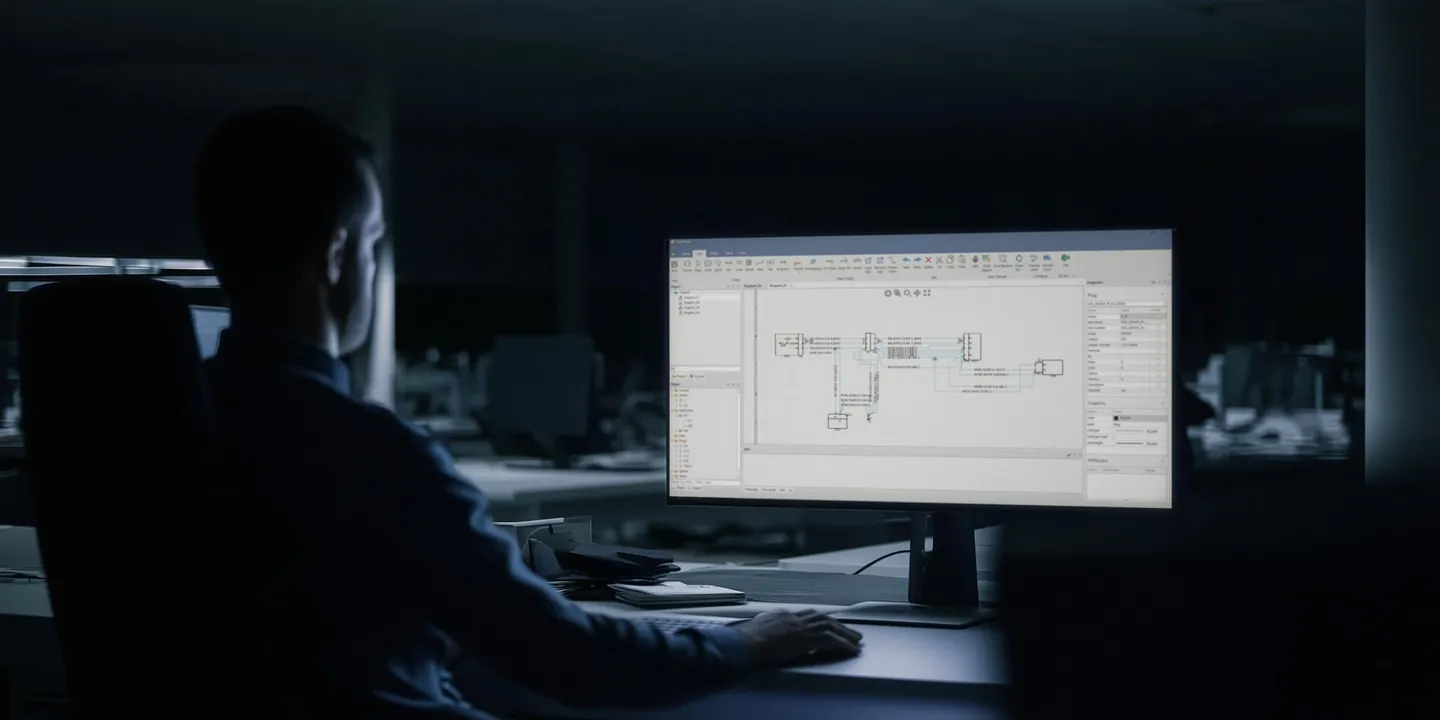
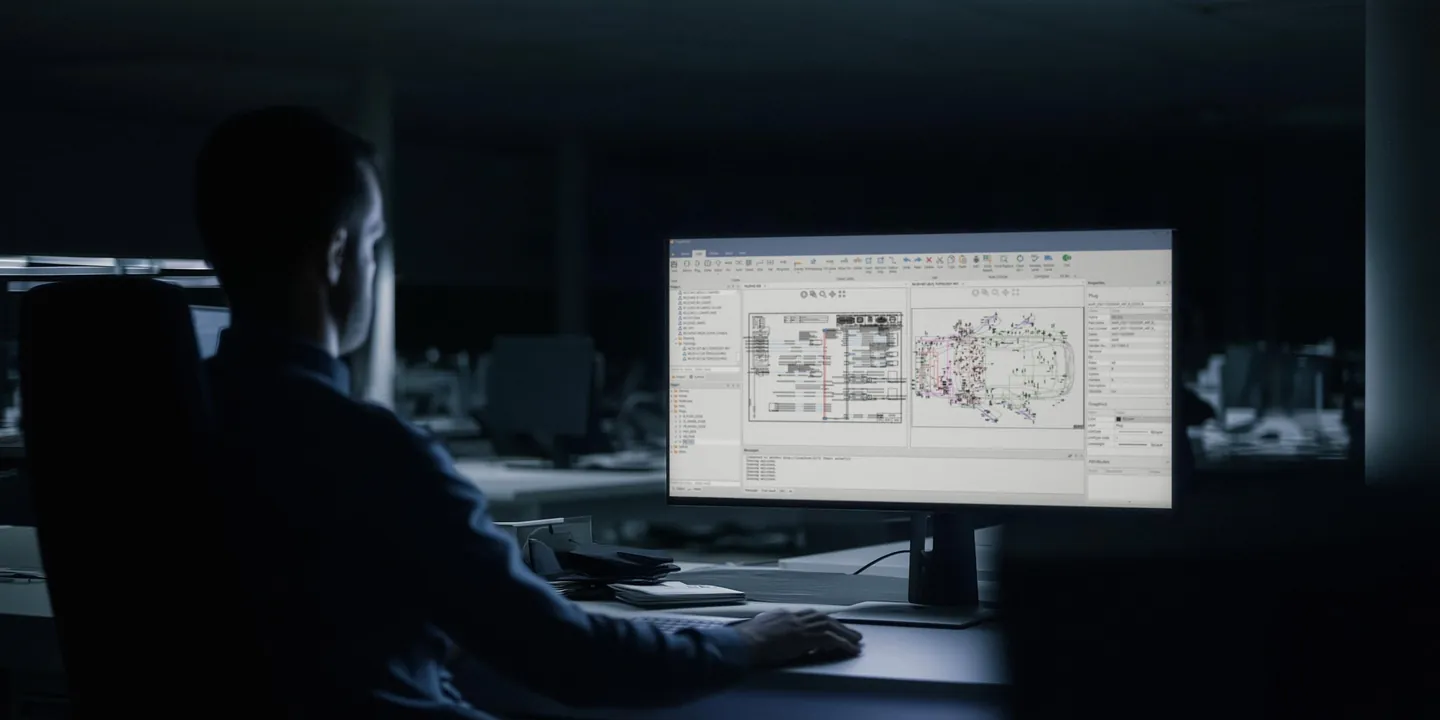
feat: 히어로 모니터 화면을 실제 Logic 화면(회로도 + 토폴로지, 2026-11-17 캡처)으로 교체, 같은 사진·모서리·합성 효과 유지, OG 이미지도 교체, 이미지에 캐시 번호

diff --git a/index.html b/index.html
@@ -14,7 +14,7 @@
 <meta property="og:site_name" content="VegaFencer">
 <meta property="og:locale" content="ko_KR">
 <link rel="canonical" href="https://roiscompany.com/">
-<meta property="og:image" content="https://roiscompany.com/assets/img/og-home.jpg">
+<meta property="og:image" content="https://roiscompany.com/assets/img/og-home.jpg?v=20261117">
 <meta property="og:image:width" content="1200">
 <meta property="og:image:height" content="630">
 <meta name="twitter:card" content="summary_large_image">
@@ -29,7 +29,7 @@
 <link rel="icon" type="image/png" sizes="32x32" href="assets/img/favicon-32.png">
 <link rel="apple-touch-icon" href="assets/img/apple-touch-icon.png">
 
-<link rel="preload" as="image" href="assets/img/hero-office-2048.webp" imagesrcset="assets/img/hero-office-1440.webp 1440w, assets/img/hero-office-2048.webp 2048w, assets/img/hero-office-3072.webp 3072w" imagesizes="(min-width: 768px) 90vw, 200vw" fetchpriority="high">
+<link rel="preload" as="image" href="assets/img/hero-office-2048.webp?v=20261117" imagesrcset="assets/img/hero-office-1440.webp?v=20261117 1440w, assets/img/hero-office-2048.webp?v=20261117 2048w, assets/img/hero-office-3072.webp?v=20261117 3072w" imagesizes="(min-width: 768px) 90vw, 200vw" fetchpriority="high">
 <link rel="stylesheet" href="assets/tailwind.css?v=48d8f5b2">
 <link rel="stylesheet" href="assets/site.css?v=0445c20b">
 <link rel="stylesheet" href="assets/engineering.css?v=820670c3">
@@ -44,8 +44,8 @@
      ============================================================ -->
 <section id="hero" class="hero" aria-labelledby="heroTitle">
   <div class="hero-photo">
-    <img class="hero-bg" src="assets/img/hero-office-2048.webp"
-      srcset="assets/img/hero-office-1440.webp 1440w, assets/img/hero-office-2048.webp 2048w, assets/img/hero-office-3072.webp 3072w"
+    <img class="hero-bg" src="assets/img/hero-office-2048.webp?v=20261117"
+      srcset="assets/img/hero-office-1440.webp?v=20261117 1440w, assets/img/hero-office-2048.webp?v=20261117 2048w, assets/img/hero-office-3072.webp?v=20261117 3072w"
       sizes="(min-width: 768px) 90vw, 200vw" width="3072" height="1536" alt="" fetchpriority="high" decoding="async">
     <div class="hero-shade" aria-hidden="true"></div>
   </div>
